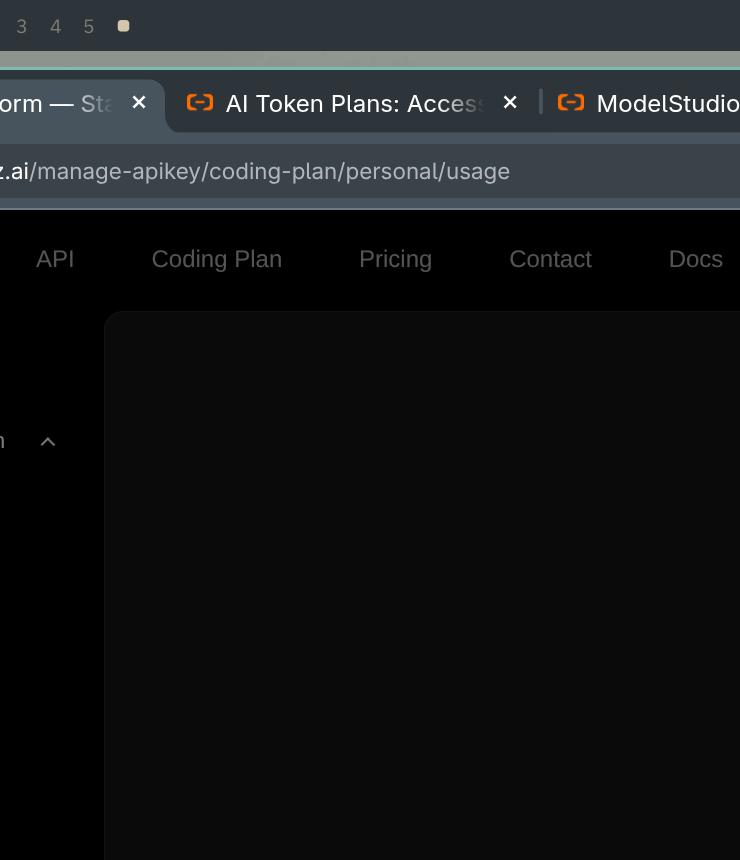
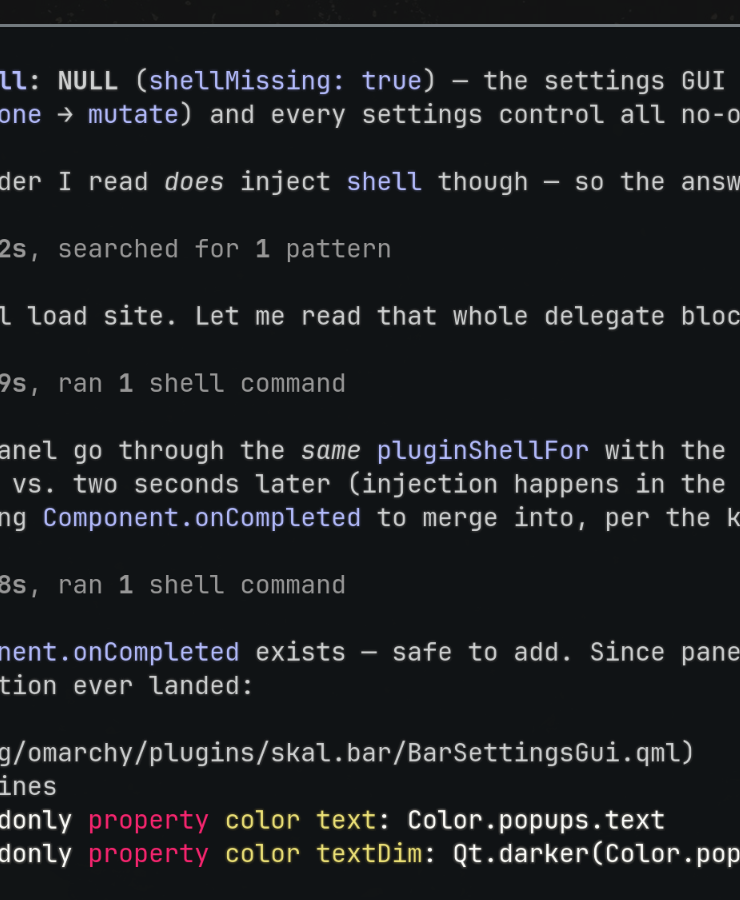
feat: console link under each Alibaba entry
Rows are now two zones — content (sized like every other row so
alignment never shifts) plus, on Alibaba profiles, a breathing-room gap
and a quota-in-console link, since Alibaba publishes no usage API for
token plans. Delegate roots must stay color: transparent — Rectangle
defaults to white.

diff --git a/Widget.qml b/Widget.qml
@@ -362,16 +362,20 @@ Panel {
         delegate: Rectangle {
           id: row
           width: menuColumn.width
-          height: usageInfo ? Style.space(68) : Style.space(30)
-          radius: Style.cornerRadius
-          color: rowMouse.containsMouse
-            ? Util.alpha(rowFg.color, 0.08)
-            : "transparent"
+          color: "transparent"
+          height: (usageInfo ? Style.space(68) : Style.space(30))
+                + (alibabaHost ? Style.space(30) : 0)
 
           readonly property color rowFg: root.bar ? root.bar.barForeground : Color.foreground
           readonly property var prof: modelData
           readonly property bool active: root.statusJson && root.statusJson.current === prof.id
           readonly property var usageInfo: prof.usage_id ? (root.usageById[prof.usage_id] || null) : null
+          // Alibaba publishes no usage API for token plans — the console is
+          // the only place quota exists, so each alibaba row links to it.
+          readonly property bool alibabaHost: {
+            var h = prof.host || ""
+            return h.indexOf("maas.aliyuncs.com") >= 0 || h.indexOf("dashscope") >= 0
+          }
           // Progress-bar metrics (max 2), one per window with a percent.
           readonly property var barMetrics: {
             if (!usageInfo || !usageInfo.metrics) return []
@@ -392,133 +396,185 @@ Panel {
             return parts.join(" · ")
           }
 
-          // Active marker: accent pill down the left edge.
-          Rectangle {
-            visible: row.active
-            width: 3
-            radius: width / 2
-            color: Color.accent
-            anchors.left: parent.left
-            anchors.top: parent.top
-            anchors.topMargin: Style.space(4)
-            anchors.bottom: parent.bottom
-            anchors.bottomMargin: Style.space(4)
-          }
+          // Zone 1: the profile entry itself, sized exactly like every
+          // other row so content alignment never shifts.
+          Item {
+            id: contentZone
+            width: parent.width
+            height: row.usageInfo ? Style.space(68) : Style.space(30)
 
-          // Left+right anchors give the column a definite width, so the
-          // child Texts can bind width to it without a binding loop.
-          Column {
-            anchors.left: parent.left
-            anchors.leftMargin: Style.space(10)
-            anchors.right: parent.right
-            anchors.rightMargin: Style.space(8)
-            anchors.verticalCenter: parent.verticalCenter
-            spacing: Style.space(1)
+            Rectangle {
+              anchors.fill: parent
+              radius: Style.cornerRadius
+              color: rowMouse.containsMouse ? Util.alpha(row.rowFg.color, 0.08) : "transparent"
+            }
 
-            // Title line: provider mark (assets/providers/<icon>.svg, from
-            // the CLI's host mapping or the profile's `icon =` key) inline
-            // with the name, tinted to the theme — accent while active.
-            Row {
-              width: parent.width
-              spacing: Style.space(6)
+            // Active marker: accent pill down the left edge.
+            Rectangle {
+              visible: row.active
+              width: 3
+              radius: width / 2
+              color: Color.accent
+              anchors.left: parent.left
+              anchors.top: parent.top
+              anchors.topMargin: Style.space(4)
+              anchors.bottom: parent.bottom
+              anchors.bottomMargin: Style.space(4)
+            }
 
-              Item {
-                id: providerMark
-                width: Style.space(22)
-                height: width
-                anchors.verticalCenter: parent.verticalCenter
+            // Left+right anchors give the column a definite width, so the
+            // child Texts can bind width to it without a binding loop.
+            Column {
+              anchors.left: parent.left
+              anchors.leftMargin: Style.space(10)
+              anchors.right: parent.right
+              anchors.rightMargin: Style.space(8)
+              anchors.verticalCenter: parent.verticalCenter
+              spacing: Style.space(1)
 
-                // A couple of pixels of breathing room on every edge —
-                // marks that paint to the SVG edge (the Z.AI border)
-                // otherwise meet the effect's texture boundary.
-                Image {
-                  id: providerProvider
-                  anchors.fill: parent
-                  anchors.margins: 2
-                  source: Qt.resolvedUrl("assets/providers/" + (row.prof.icon || "claude") + ".svg")
-                  sourceSize: Qt.size(64, 64)
-                  fillMode: Image.PreserveAspectFit
+              // Title line: provider mark (assets/providers/<icon>.svg,
+              // from the CLI's host mapping or the profile's `icon =` key)
+              // inline with the name, tinted to the theme — accent while
+              // active.
+              Row {
+                width: parent.width
+                spacing: Style.space(6)
+
+                Item {
+                  id: providerMark
+                  width: Style.space(22)
+                  height: width
+                  anchors.verticalCenter: parent.verticalCenter
+
+                  // A couple of pixels of breathing room on every edge —
+                  // marks that paint to the SVG edge (the Z.AI border)
+                  // otherwise meet the effect's texture boundary.
+                  Image {
+                    id: providerProvider
+                    anchors.fill: parent
+                    anchors.margins: 2
+                    source: Qt.resolvedUrl("assets/providers/" + (row.prof.icon || "claude") + ".svg")
+                    sourceSize: Qt.size(64, 64)
+                    fillMode: Image.PreserveAspectFit
+                  }
+
+                  MultiEffect {
+                    anchors.fill: providerProvider
+                    source: providerProvider
+                    autoPaddingEnabled: false
+                    colorization: 1.0
+                    colorizationColor: row.active ? Color.accent : row.rowFg
+                  }
                 }
 
-                MultiEffect {
-                  anchors.fill: providerProvider
-                  source: providerProvider
-                  autoPaddingEnabled: false
-                  colorization: 1.0
-                  colorizationColor: row.active ? Color.accent : row.rowFg
+                Text {
+                  width: parent.width - providerMark.width - parent.spacing
+                  anchors.verticalCenter: parent.verticalCenter
+                  text: row.prof.name
+                  color: row.active ? Color.accent : row.rowFg
+                  font.family: Style.font.family
+                  font.pixelSize: Style.font.body
+                  font.bold: row.active
+                  elide: Text.ElideRight
+                }
+              }
+
+              // One meter line per usage window (session, weekly) under the
+              // name: progress bar plus its percentage, labeled by the
+              // window's initial. Urgent fill past 80%.
+              Column {
+                id: barStack
+                width: parent.width
+                spacing: Style.space(4)
+                visible: row.barMetrics.length > 0
+
+                Repeater {
+                  model: row.barMetrics
+
+                  Row {
+                    spacing: Style.space(6)
+
+                    UsageBar {
+                      width: barStack.width - pctText.implicitWidth - parent.spacing
+                      anchors.verticalCenter: parent.verticalCenter
+                      fraction: Util.clamp((modelData.percent || 0) / 100, 0, 1)
+                      warn: (modelData.percent || 0) > 80
+                    }
+
+                    Text {
+                      id: pctText
+                      anchors.verticalCenter: parent.verticalCenter
+                      text: {
+                        var label = String(modelData.label || "")
+                        var initial = (label.match(/[A-Za-z]/) || [""])[0]
+                        return initial ? initial + " " + modelData.percent + "%"
+                                       : modelData.percent + "%"
+                      }
+                      color: (modelData.percent || 0) > 80 ? Color.urgent : row.rowFg
+                      font.family: Style.font.family
+                      font.pixelSize: Style.font.caption
+                    }
+                  }
                 }
               }
 
               Text {
-                width: parent.width - providerMark.width - parent.spacing
-                anchors.verticalCenter: parent.verticalCenter
-                text: row.prof.name
-                color: row.active ? Color.accent : row.rowFg
+                width: parent.width
+                visible: text !== ""
+                text: row.detailLine
+                color: Color.muted
                 font.family: Style.font.family
-                font.pixelSize: Style.font.body
-                font.bold: row.active
+                font.pixelSize: Style.font.caption
                 elide: Text.ElideRight
               }
             }
 
-            // One meter line per usage window (session, weekly) under the
-            // name: progress bar plus its percentage, labeled by the
-            // window's initial. Urgent fill past 80%.
-            Column {
-              id: barStack
-              width: parent.width
-              spacing: Style.space(4)
-              visible: row.barMetrics.length > 0
-
-              Repeater {
-                model: row.barMetrics
-
-                Row {
-                  spacing: Style.space(6)
-
-                  UsageBar {
-                    width: barStack.width - pctText.implicitWidth - parent.spacing
-                    anchors.verticalCenter: parent.verticalCenter
-                    fraction: Util.clamp((modelData.percent || 0) / 100, 0, 1)
-                    warn: (modelData.percent || 0) > 80
-                  }
-
-                  Text {
-                    id: pctText
-                    anchors.verticalCenter: parent.verticalCenter
-                    text: {
-                      var label = String(modelData.label || "")
-                      var initial = (label.match(/[A-Za-z]/) || [""])[0]
-                      return initial ? initial + " " + modelData.percent + "%"
-                                     : modelData.percent + "%"
-                    }
-                    color: (modelData.percent || 0) > 80 ? Color.urgent : row.rowFg
-                    font.family: Style.font.family
-                    font.pixelSize: Style.font.caption
-                  }
-                }
+            MouseArea {
+              id: rowMouse
+              anchors.fill: parent
+              hoverEnabled: true
+              cursorShape: Qt.PointingHandCursor
+              onClicked: {
+                root.close()
+                if (!row.active) root.useProfile(row.prof.id, row.prof.name)
               }
-            }
-
-            Text {
-              width: parent.width
-              visible: text !== ""
-              text: row.detailLine
-              color: Color.muted
-              font.family: Style.font.family
-              font.pixelSize: Style.font.caption
-              elide: Text.ElideRight
             }
           }
 
-          MouseArea {
-            id: rowMouse
-            anchors.fill: parent
-            hoverEnabled: true
-            cursorShape: Qt.PointingHandCursor
-            onClicked: {
-              root.close()
-              if (!parent.active) root.useProfile(parent.prof.id, parent.prof.name)
+          // Zone 2 (alibaba rows): breathing room, then the console link.
+          Item {
+            visible: row.alibabaHost
+            height: visible ? Style.space(30) : 0
+            width: parent.width
+            anchors.bottom: parent.bottom
+
+            Rectangle {
+              id: consolePlate
+              anchors.left: parent.left
+              anchors.right: parent.right
+              anchors.bottom: parent.bottom
+              height: Style.space(24)
+              radius: Style.cornerRadius
+              color: consoleMouse.containsMouse ? Util.alpha(Color.muted, 0.15) : "transparent"
+            }
+
+            Text {
+              anchors.left: parent.left
+              anchors.leftMargin: Style.space(26)
+              anchors.verticalCenter: consolePlate.verticalCenter
+              text: "quota in Alibaba console  ↗"
+              color: consoleMouse.containsMouse ? row.rowFg : Color.muted
+              font.family: Style.font.family
+              font.pixelSize: Style.font.caption
+            }
+
+            MouseArea {
+              id: consoleMouse
+              anchors.fill: consolePlate
+              hoverEnabled: true
+              cursorShape: Qt.PointingHandCursor
+              onClicked: Util.execDetached(
+                "xdg-open https://bailian.console.aliyun.com/?#/efm/subscription/overview")
             }
           }
         }
@@ -583,41 +639,6 @@ Panel {
         elide: Text.ElideRight
       }
 
-      // Alibaba token plans publish no usage API — the console is the only
-      // place quota exists, so surface a link when such a profile is listed.
-      Rectangle {
-        width: menuColumn.width
-        height: hasAlibaba ? Style.space(26) : 0
-        visible: height > 0
-        radius: Style.cornerRadius
-        color: consoleMouse.containsMouse ? Util.alpha(Color.muted, 0.12) : "transparent"
-
-        readonly property bool hasAlibaba: {
-          for (var i = 0; i < root.profiles.length; i++)
-            if ((root.profiles[i].host || "").indexOf("maas.aliyuncs.com") >= 0 ||
-                (root.profiles[i].host || "").indexOf("dashscope") >= 0) return true
-          return false
-        }
-
-        Text {
-          anchors.left: parent.left
-          anchors.leftMargin: Style.space(8)
-          anchors.verticalCenter: parent.verticalCenter
-          text: "Alibaba token-plan quota  ↗"
-          color: Color.muted
-          font.family: Style.font.family
-          font.pixelSize: Style.font.caption
-        }
-
-        MouseArea {
-          id: consoleMouse
-          anchors.fill: parent
-          hoverEnabled: true
-          cursorShape: Qt.PointingHandCursor
-          onClicked: Util.execDetached(
-            "xdg-open https://bailian.console.aliyun.com/?#/efm/subscription/overview")
-        }
-      }
     }
   }
 
